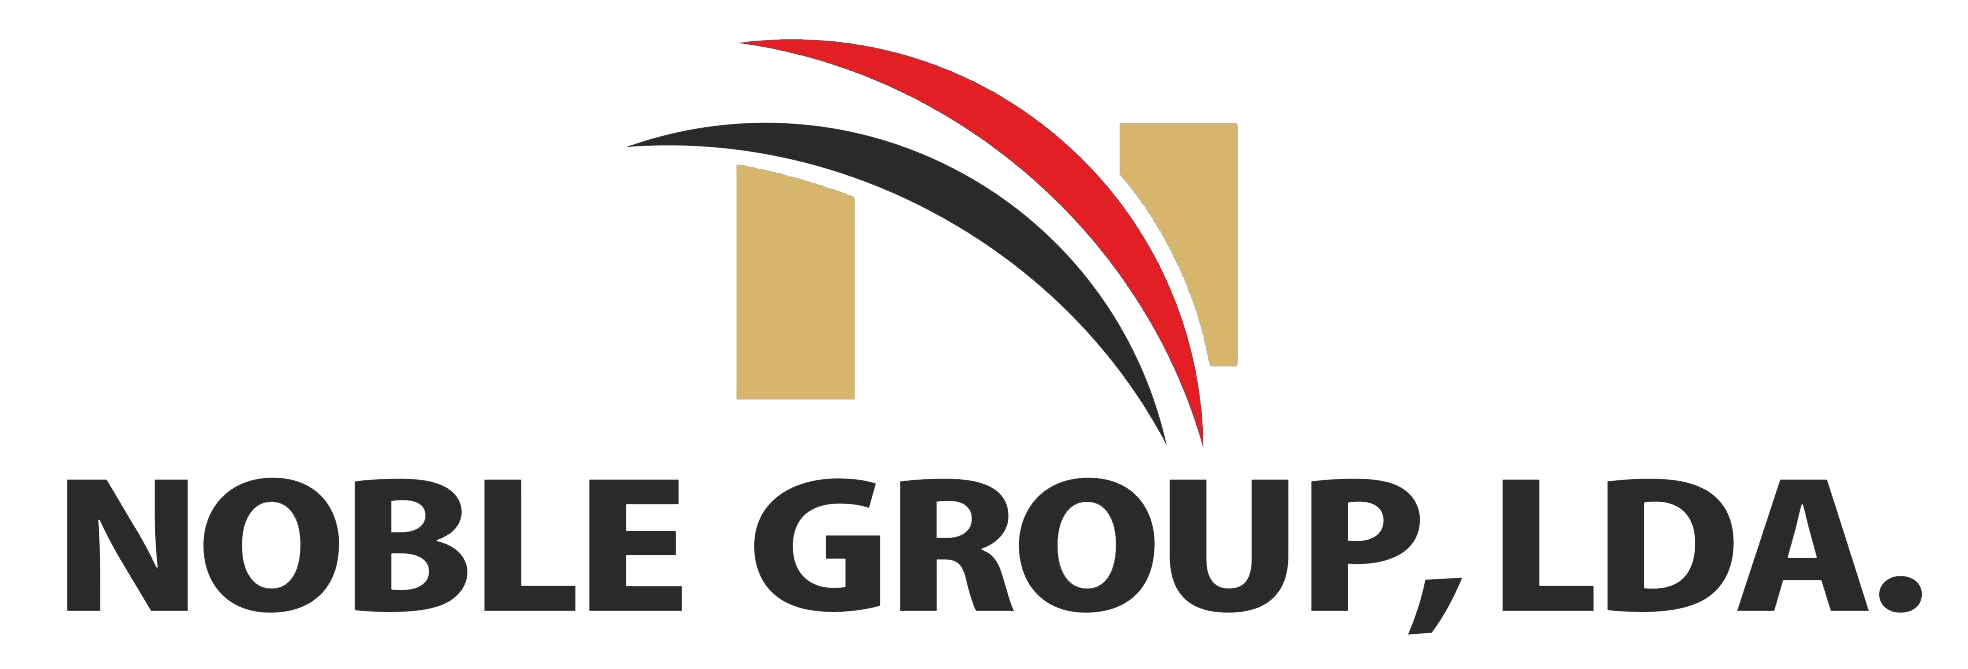
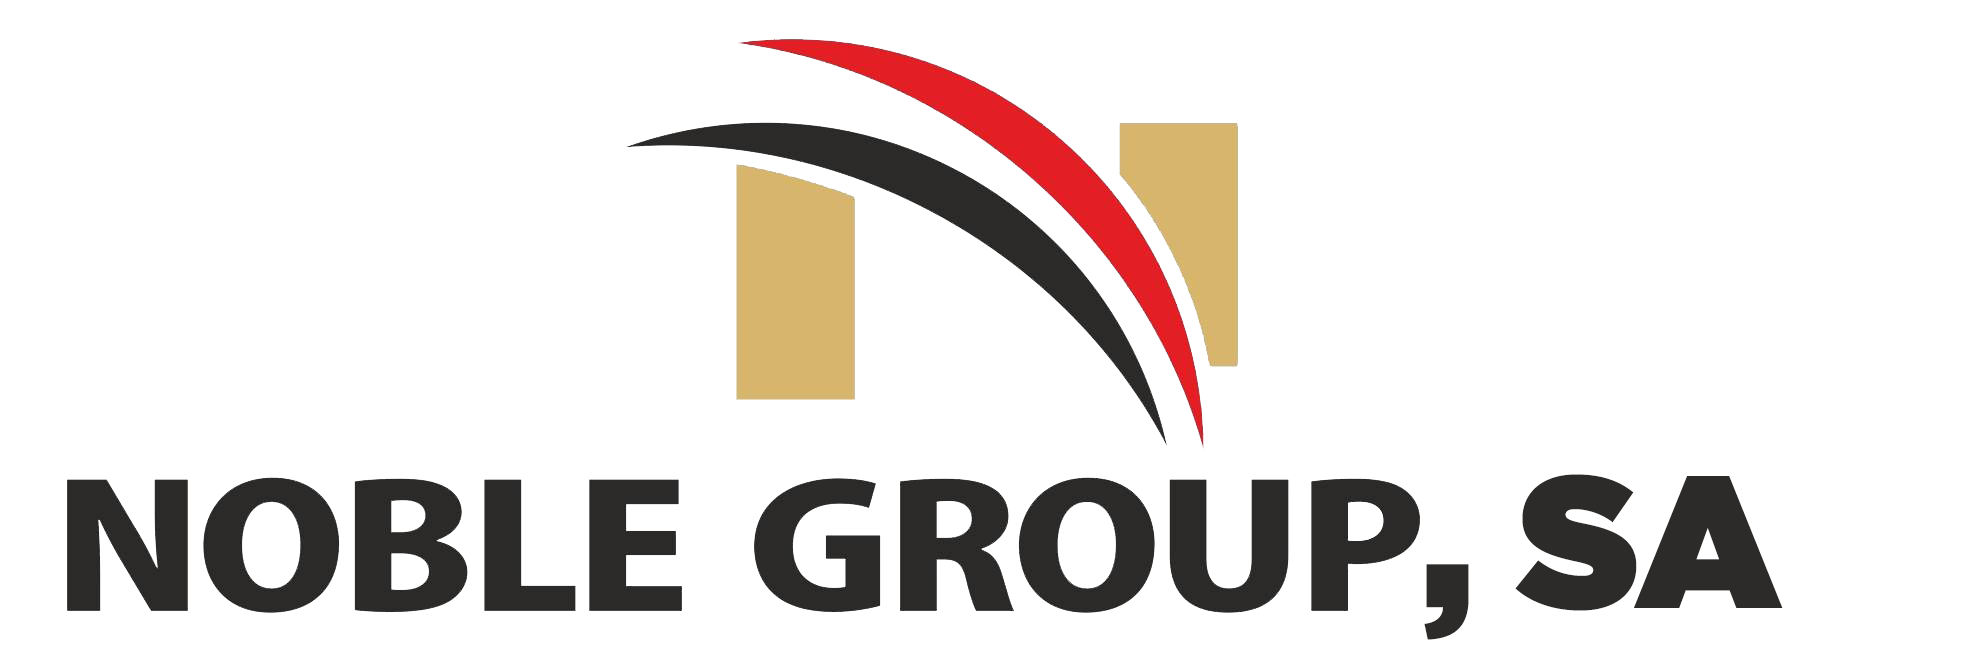
jk

Changed region(s): [[0.7129, 0.6876, 0.9919, 0.9567]]

diff --git a/index.html b/index.html
@@ -5,7 +5,7 @@
   <meta charset="utf-8">
   <meta content="width=device-width, initial-scale=1.0" name="viewport">
 
-  <title>Noble Group Lda</title>
+  <title>Noble Group SA</title>
   <meta content="" name="description">
   <meta content="" name="keywords">
 
@@ -46,6 +46,86 @@
     to   { transform: translate(0, -0px); }    
 }
 
+
+
+
+
+
+
+
+
+.gallery.container {
+  padding-bottom: 1000px;
+  display: flex;
+  justify-content: center;
+  align-items: center;
+  margin: 10vmin;
+  overflow: hidden;
+  transform: skew(5deg);
+}
+.gallery.container .card {
+  flex: 1;
+  transition: all 1s ease-in-out;
+  height: 75vmin;
+  position: relative;
+}
+.gallery.container .card .card__head {
+  color: black;
+  background: rgba(255, 30, 173, 0.75);
+  padding: 0.5em;
+  transform: rotate(-90deg);
+  transform-origin: 0% 0%;
+  transition: all 0.5s ease-in-out;
+  min-width: 100%;
+  text-align: center;
+  position: absolute;
+  bottom: 0;
+  left: 0;
+  font-size: 1em;
+  white-space: nowrap;
+}
+.gallery.container .card:hover {
+  flex-grow: 10;
+}
+.gallery.container .card:hover img {
+  filter: grayscale(0);
+}
+.gallery.container .card:hover .card__head {
+  text-align: center;
+  top: calc(100% - 2em);
+  color: white;
+  background: rgba(0, 0, 0, 0.5);
+  font-size: 2em;
+  transform: rotate(0deg) skew(-5deg);
+}
+.gallery.container .card img {
+  width: 100%;
+  height: 100%;
+  object-fit: cover;
+  transition: all 1s ease-in-out;
+  filter: grayscale(100%);
+}
+.gallery.container .card:not(:nth-child(5)) {
+  margin-right: 1em;
+}
+
+
+@media (max-width: 600px) {
+
+.faq{
+  margin-top: -600px;
+}
+
+}
+
+
+@media (max-width: 390px) {
+
+.faq{
+margin-top: -1000px;
+}
+
+}
 
 
 </style>
@@ -310,107 +390,34 @@
           <p>Galleries / Companies</p>
         </div>
 
-        <div class="row" data-aos="fade-up" data-aos-delay="100">
-          <div class="col-lg-12 d-flex justify-content-center">
-            <ul id="portfolio-flters">
-              <li data-filter="*" class="filter-active">All</li>
-              <li data-filter=".filter-app">App</li>
-              <li data-filter=".filter-card">Card</li>
-              <li data-filter=".filter-web">Web</li>
-            </ul>
-          </div>
-        </div>
 
         <div class="row portfolio-container" data-aos="fade-up" data-aos-delay="200">
 
-          <div class="col-lg-4 col-md-6 portfolio-item filter-app">
-            <img src="assets/img/portfolio/portfolio-1.jpg" class="img-fluid" alt="">
-            <div class="portfolio-info">
-              <h4>App 1</h4>
-              <p>App</p>
-              <a href="assets/img/portfolio/portfolio-1.jpg" data-gallery="portfolioGallery" class="portfolio-lightbox preview-link" title="App 1"><i class="bx bx-plus"></i></a>
-              <a href="portfolio-details.html" class="details-link" title="More Details"><i class="bx bx-link"></i></a>
-            </div>
-          </div>
 
-          <div class="col-lg-4 col-md-6 portfolio-item filter-web">
-            <img src="assets/img/portfolio/portfolio-2.jpg" class="img-fluid" alt="">
-            <div class="portfolio-info">
-              <h4>Web 3</h4>
-              <p>Web</p>
-              <a href="assets/img/portfolio/portfolio-2.jpg" data-gallery="portfolioGallery" class="portfolio-lightbox preview-link" title="Web 3"><i class="bx bx-plus"></i></a>
-              <a href="portfolio-details.html" class="details-link" title="More Details"><i class="bx bx-link"></i></a>
-            </div>
-          </div>
 
-          <div class="col-lg-4 col-md-6 portfolio-item filter-app">
-            <img src="assets/img/portfolio/portfolio-3.jpg" class="img-fluid" alt="">
-            <div class="portfolio-info">
-              <h4>App 2</h4>
-              <p>App</p>
-              <a href="assets/img/portfolio/portfolio-3.jpg" data-gallery="portfolioGallery" class="portfolio-lightbox preview-link" title="App 2"><i class="bx bx-plus"></i></a>
-              <a href="portfolio-details.html" class="details-link" title="More Details"><i class="bx bx-link"></i></a>
+          <div class="gallery container">
+            <div class="card">
+              <img src="assets/img/angomart.png">
+              <div class="card__head">AngoMart</div>
             </div>
-          </div>
+            <div class="card">
+              <img src="assets/img/dukan.png">
+              <div class="card__head">Dukan</div>
+            </div>
+            <div class="card">
+              <img src="assets/img/nossacasa.png">
+              <div class="card__head">Nossa Casa</div>
+            </div>
+            <div class="card">
+              <img src="assets/img/angomart.png">
+              <div class="card__head">AngoMart
+              </div>
+            </div>
+            <div class="card">
+              <img src="assets/img/dukan.png">
+              <div class="card__head">Dukan</div>
+            </div>
 
-          <div class="col-lg-4 col-md-6 portfolio-item filter-card">
-            <img src="assets/img/portfolio/portfolio-4.jpg" class="img-fluid" alt="">
-            <div class="portfolio-info">
-              <h4>Card 2</h4>
-              <p>Card</p>
-              <a href="assets/img/portfolio/portfolio-4.jpg" data-gallery="portfolioGallery" class="portfolio-lightbox preview-link" title="Card 2"><i class="bx bx-plus"></i></a>
-              <a href="portfolio-details.html" class="details-link" title="More Details"><i class="bx bx-link"></i></a>
-            </div>
-          </div>
-
-          <div class="col-lg-4 col-md-6 portfolio-item filter-web">
-            <img src="assets/img/portfolio/portfolio-5.jpg" class="img-fluid" alt="">
-            <div class="portfolio-info">
-              <h4>Web 2</h4>
-              <p>Web</p>
-              <a href="assets/img/portfolio/portfolio-5.jpg" data-gallery="portfolioGallery" class="portfolio-lightbox preview-link" title="Web 2"><i class="bx bx-plus"></i></a>
-              <a href="portfolio-details.html" class="details-link" title="More Details"><i class="bx bx-link"></i></a>
-            </div>
-          </div>
-
-          <div class="col-lg-4 col-md-6 portfolio-item filter-app">
-            <img src="assets/img/portfolio/portfolio-6.jpg" class="img-fluid" alt="">
-            <div class="portfolio-info">
-              <h4>App 3</h4>
-              <p>App</p>
-              <a href="assets/img/portfolio/portfolio-6.jpg" data-gallery="portfolioGallery" class="portfolio-lightbox preview-link" title="App 3"><i class="bx bx-plus"></i></a>
-              <a href="portfolio-details.html" class="details-link" title="More Details"><i class="bx bx-link"></i></a>
-            </div>
-          </div>
-
-          <div class="col-lg-4 col-md-6 portfolio-item filter-card">
-            <img src="assets/img/portfolio/portfolio-7.jpg" class="img-fluid" alt="">
-            <div class="portfolio-info">
-              <h4>Card 1</h4>
-              <p>Card</p>
-              <a href="assets/img/portfolio/portfolio-7.jpg" data-gallery="portfolioGallery" class="portfolio-lightbox preview-link" title="Card 1"><i class="bx bx-plus"></i></a>
-              <a href="portfolio-details.html" class="details-link" title="More Details"><i class="bx bx-link"></i></a>
-            </div>
-          </div>
-
-          <div class="col-lg-4 col-md-6 portfolio-item filter-card">
-            <img src="assets/img/portfolio/portfolio-8.jpg" class="img-fluid" alt="">
-            <div class="portfolio-info">
-              <h4>Card 3</h4>
-              <p>Card</p>
-              <a href="assets/img/portfolio/portfolio-8.jpg" data-gallery="portfolioGallery" class="portfolio-lightbox preview-link" title="Card 3"><i class="bx bx-plus"></i></a>
-              <a href="portfolio-details.html" class="details-link" title="More Details"><i class="bx bx-link"></i></a>
-            </div>
-          </div>
-
-          <div class="col-lg-4 col-md-6 portfolio-item filter-web">
-            <img src="assets/img/portfolio/portfolio-9.jpg" class="img-fluid" alt="">
-            <div class="portfolio-info">
-              <h4>Web 3</h4>
-              <p>Web</p>
-              <a href="assets/img/portfolio/portfolio-9.jpg" data-gallery="portfolioGallery" class="portfolio-lightbox preview-link" title="Web 3"><i class="bx bx-plus"></i></a>
-              <a href="portfolio-details.html" class="details-link" title="More Details"><i class="bx bx-link"></i></a>
-            </div>
           </div>
 
         </div>
@@ -418,10 +425,10 @@
       </div>
     </section><!-- End Portfolio Section -->
 
-   
+
 
     <!-- ======= Frequently Asked Questions Section ======= -->
-    <section id="faq" class="faq">
+    <section id="faq" class="faq" style="margin-top: 900px;">
       <div class="container" data-aos="fade-up">
 
         <div class="section-title">
